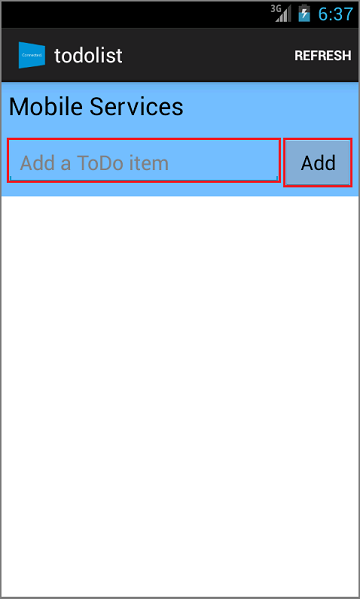
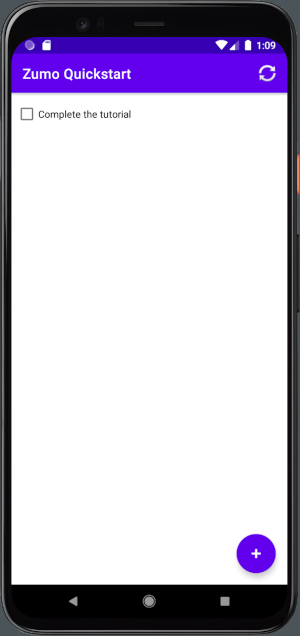
Updated auth section

diff --git a/samples/android/app/src/main/java/com/azure/mobile/zumoquickstart/TodoService.kt b/samples/android/app/src/main/java/com/azure/mobile/zumoquickstart/TodoService.kt
@@ -1,6 +1,7 @@
 package com.azure.mobile.zumoquickstart
 
 import android.content.Context
+import android.content.Intent
 import com.google.common.util.concurrent.MoreExecutors
 import com.microsoft.windowsazure.mobileservices.MobileServiceClient
 import com.microsoft.windowsazure.mobileservices.MobileServiceList
@@ -87,6 +88,26 @@ class TodoService private constructor() {
                callback.invoke(e)
            }
         }, executor)
+    }
+
+    /**
+     * Initiate the login process with the provided request code.
+     */
+    fun authenticate(requestCode: Int) {
+        mClient.login("aad", "zumoquickstart", requestCode)
+    }
+
+    /**
+     * Handle the response from the login process.
+     */
+    fun onActivityResult(data: Intent?, callback: (Throwable?) -> Unit) {
+        var result = mClient.onActivityResult(data)
+        if (result.isLoggedIn) {
+            callback(null)
+        } else {
+            callback(Exception(result.errorMessage))
+        }
+
     }
 
     /**

diff --git a/docs/quickstarts/includes/quickstart-configure-auth.md b/docs/quickstarts/includes/quickstart-configure-auth.md
@@ -14,10 +14,10 @@ To complete this tutorial, you will need to know the Backend URL for your applic
 
 1. Sign in to the [Azure portal](https://portal.azure.com).
 2. Select **Azure Active Directory** > **App registrations** > **New registration**.
-3. In the **Register an application** page, enter `zumoquickstart` for your app registration.
+3. In the **Register an application** page, enter `zumoquickstart` in the **Name** field.
 4. Under **Supported account types**, select **Accounts in any organizational directory (Any Azure AD directory - multitenant) and personal Microsoft accounts (e.g. Skype, Xbox)**.
 5. In **Redirect URI**, select **Web** and type `<backend-url>/.auth/login/aad/callback`.  For example, if your backend URL is `https://web-abcd1234.azurewebsites.net`, you would enter `https://web-abcd1234.azurewebsites.net/.auth/login/aad/callback`.
-6. Select **Register**.
+6. Press the **Register** button at the bottom of the form.
 7. Copy the **Application (client) ID**.  You will need it later.
 8. From the left pane, select **Certificates & secrets** > **New client secret**.  Enter a suitable description, select a validity duration, then select **Add**.
 9. Copy the value that appears on the **Certificates & secrets** page.  You will need it later and it won't be displayed again.
@@ -27,28 +27,20 @@ To complete this tutorial, you will need to know the Backend URL for your applic
 
 ### Configure Azure App Service Authentication and Authorization
 
-1. In the [Azure portal](https://portal.azure.com), select your App Service.
+1. In the [Azure portal](https://portal.azure.com), select [**All Resources**](https://portal.azure.com/#blade/HubsExtension/BrowseAll), then your App Service.
 2. Select **Settings** > **Authentication / Authorization**. 
 3. Ensure that **App Service Authentication** is **On**.
 4. Under **Authentication Providers**, select **Azure Active Directory**.
 5. Select **Advanced** under **Management mode**.
-6. Paste the Application (client) ID and client secret that you obtained earlier.
+6. Paste the Application (client) ID that you obtained earlier.
 7. Enter `https://login.microsoftonline.com/9188040d-6c67-4c5b-b112-36a304b66dad/v2.0` into the **Issuer Url** field.  This is a "magic tenant url" for Microsoft logins.
-8. Select **OK**.
-9. To restrict access to Microsoft account users, set **Action to take when request is not authenticated** to **Log in with Azure Active Directory**.
-10. Select **Save**.
+8. Press **Show secret**.  Paste the client secret value into the field that appears.
+9. Select **OK**.
+10. To restrict access to Microsoft account users, set **Action to take when request is not authenticated** to **Log in with Azure Active Directory**.
+11. In the **Allowed External Redirect URLs**, enter `zumoquickstart://easyauth.callback`. 
+12. Select **Save**.
 
-Step 9 requires that all users are authenticated prior to accessing your backend.  You can provide more fine-grained controls by adding code to your backend.  For more details on this, consult the Server SDK How-to for [Node.js](../../howto/server/nodejs.md) or [ASP.NET Framework](../../howto/server/dotnet-framework.md).
-
-## Add your app to the Allowed External Redirect URLs
-
-Secure authentication requires that you define a new URL scheme for your app.  This allows the authentication system to redirect back to your app once the authentication process is complete.  In this tutorial, we use the URL scheme _zumoquickstart_ throughout.  However, you can use any URL scheme you choose.  It should be unique to your mobile application.  If you are developing both iOS and Android applications, you can use the same URL scheme for both platforms.  To enable the redirection on the server side:
-
-1. In the [Azure portal](https://portal.azure.com), select your App Service.
-2. Select **Settings** > **Authentication / Authorization**. 
-3. In the **Allowed External Redirect URLs**, enter `zumoquickstart://easyauth.callback`.
-4. Click **OK**.
-5. Click **Save**.
+Step 10 requires that all users are authenticated prior to accessing your backend.  You can provide more fine-grained controls by adding code to your backend.  For more details on this, consult the Server SDK How-to for [Node.js](../../howto/server/nodejs.md) or [ASP.NET Framework](../../howto/server/dotnet-framework.md).
 
 > **DID YOU KNOW?**
 > You can also authenticate users with organizational accounts in Azure Active Directory, Facebook, Google, Twitter, or any OpenID Connect compatible provider.  Follow the instructions in the [Azure App Service documentation](https://docs.microsoft.com/en-us/azure/app-service/app-service-authentication-how-to).

diff --git a/docs/quickstarts/android/auth.md b/docs/quickstarts/android/auth.md
@@ -15,61 +15,48 @@ This exception happens because the app attempts to access the back end as an una
 ## Add authentication to the app
 
 1. Open your project in Android Studio.
-2. Open the `TodoActivity.java` file.  Add the following import statements:
+2. Open the `MainActivity` class.  Add the following constant to the top of the class:
 
-    ```java
-    import java.util.concurrent.ExecutionException;
-    import java.util.concurrent.atomic.AtomicBoolean;
-
-    import android.content.Context;
-    import android.content.SharedPreferences;
-    import android.content.SharedPreferences.Editor;
-
-    import com.microsoft.windowsazure.mobileservices.authentication.MobileServiceAuthenticationProvider;
-    import com.microsoft.windowsazure.mobileservices.authentication.MobileServiceUser;
+    ```kotlin linenums="16"
+    class MainActivity : AppCompatActivity() {
+        companion object {
+            const val LOGIN_REQUEST_CODE = 1
+        }
+        // ... rest of class ...
     ```
 
-3. Add the following methods to the `TodoActivity` class:
+3. Add the following method to the `MainActivity` class:
 
-    ```java
-    // You can choose any unique number here to differentiate auth providers from each other. 
-    // Note this is the same code at login() and onActivityResult().
-    public static final int LOGIN_REQUEST_CODE = 1;
-
-    private void authenticate() {
-        // Sign in using the Azure Active Directory provider.
-        mClient.login("aad", "zumoquickstart", LOGIN_REQUEST_CODE);
-    }
-
-    @Override
-    protected void onActivityResult(int requestCode, int resultCode, Intent data) {
-        // When request completes
-        if (resultCode == RESULT_OK) {
-            // Check the request code matches the one we send in the login request
-            if (requestCode == LOGIN_REQUEST_CODE) {
-                MobileServiceActivityResult result = mClient.onActivityResult(data);
-                if (result.isLoggedIn()) {
-                    // sign-in succeeded
-                    createAndShowDialog(String.format("You are now signed in - %1$2s", 
-                        mClient.getCurrentUser().getUserId()), "Success");
-                    createTable();
-                } else {
-                    createAndShowDialog(result.getErrorMessage(), "Error");
-                }
+    ``` kotlin linenums="62"
+    override fun onActivityResult(requestCode: Int, resultCode: Int, data: Intent?) {
+        if (requestCode == LOGIN_REQUEST_CODE && resultCode == RESULT_OK) {
+            TodoService.instance.onActivityResult(data) { error ->
+                if (error != null) showError(error) else onRefreshItemsClicked()
             }
+        }
+        super.onActivityResult(requestCode, resultCode, data)
+    }
+    ```
+
+    This code creates a method to handle the Azure Active Directory authentication process.  Once authentication is successful, the data is refreshed automatically.
+
+4. In the `onResume()` method, replace the initialization of the TodoService with the following code:
+
+    ``` kotlin linenums="53"
+    override fun onResume() {
+        super.onResume()
+
+        // Automatically refresh the items when the view starts
+        TodoService.instance.initialize(this) { error ->
+            if (error != null)
+                showError(error)
+            else
+                TodoService.instance.authenticate(LOGIN_REQUEST_CODE)
         }
     }
     ```
 
-    This code creates a mehtod to handle the Azure Active Directory authentication process.  A dialog displays the ID of the authenticated user.  You can only proceed on a successful authentication.
-
-4. In the `onCreate` method, uncomment the `authenticate()` call and comment out the `createTable()` call.  The `createTable()` call is now done only when authentication is successful:
-
-    ```java linenums="101"
-    // AUTHENTICATE USERS
-    authenticate();
-    //createTable();
-    ```
+   This will start the authentication flow when the application starts.
 
 5. To ensure redirection works as expected, add the following snippet to `AndroidManifest.xml`.  Ensure the snippet is added inside the `<application>` node:
 

diff --git a/docs/quickstarts/android/index.md b/docs/quickstarts/android/index.md
@@ -30,7 +30,7 @@ Once downloaded, open a Terminal and change directory to the location of the fil
 
 ## Configure the Android quickstart project
 
-Open the Android project (located at `samples/android`).  Edit the `Configuration.java` file to replace the `BackendUrl` with your backend URL.  For example, if your backend URL was `https://zumo-abcd1234.azurewebsites.net`, then the file would look like this:
+Open the Android project in Android Studio (located at `samples/android`).  Edit the `Configuration.java` file to replace the `BackendUrl` with your backend URL.  For example, if your backend URL was `https://zumo-abcd1234.azurewebsites.net`, then the file would look like this:
 
 ```kotlin
 package com.azure.mobile.zumoquickstart
@@ -54,6 +54,6 @@ Save the file, then build your application.
 
 In the top bar, select a suitable emulator, then press the Run button next to the AVD selector.
 
-Once the app starts, press the **Add Item** floating action button, type some text, such as *Complete the tutorial*, then click **OK**.  This will insert the text into the TodoItem SQL table you created earlier, and display032970 the text in the list.
+Once the app starts, press the **Add Item** floating action button, type some text, such as *Complete the tutorial*, then click **OK**.  This will insert the text into the TodoItem SQL table you created earlier, and display the text in the list.
 
 ![Quickstart Android](./media/startup.png)
